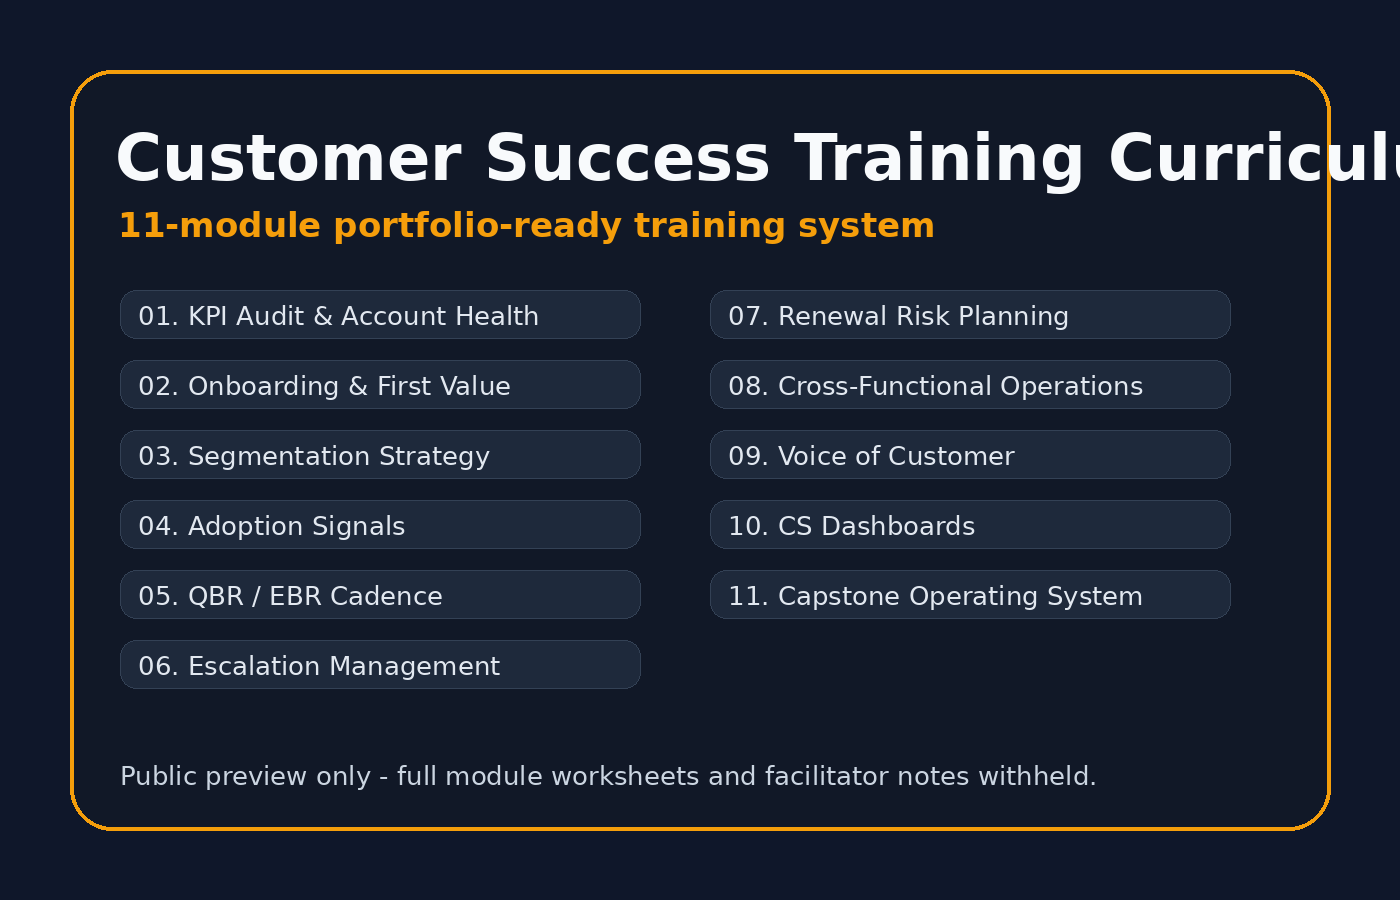
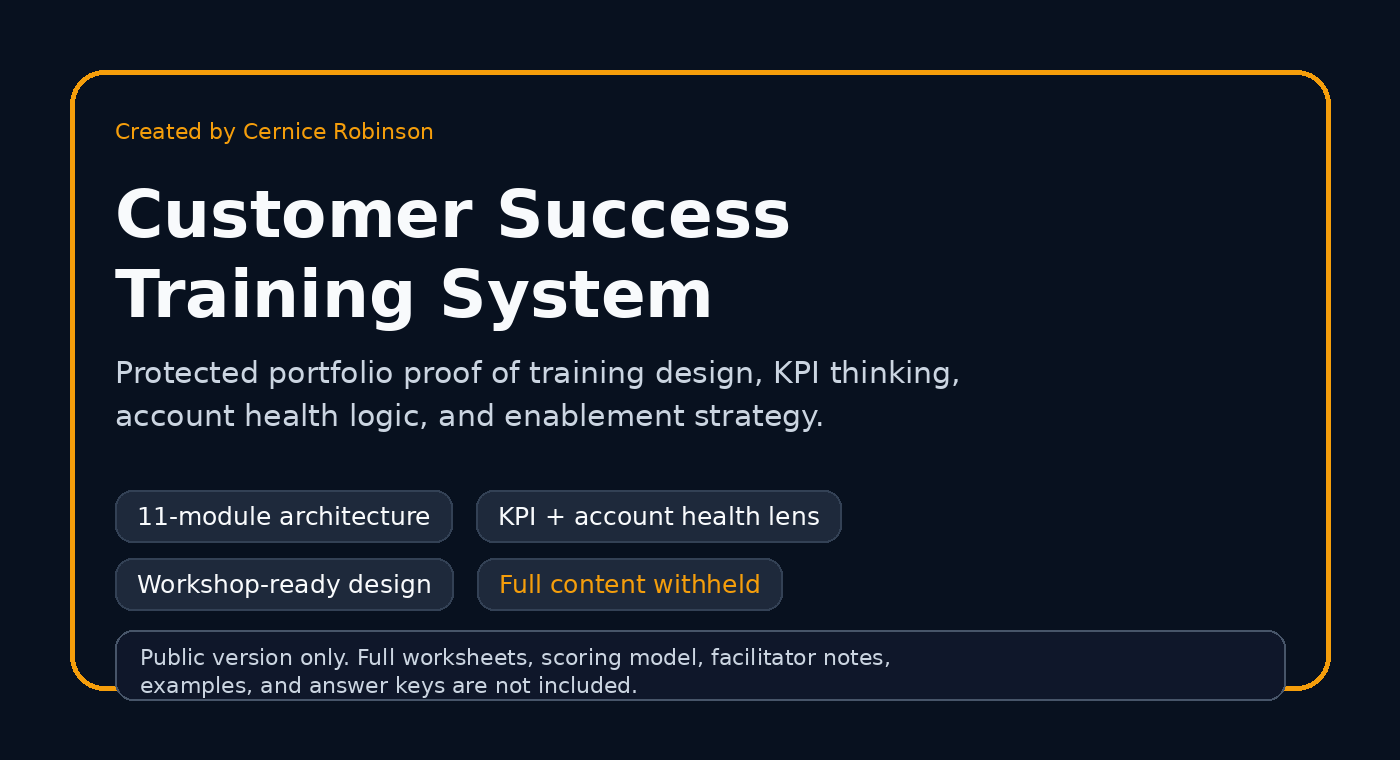
Add files via upload

diff --git a/index.html b/index.html
@@ -168,7 +168,6 @@
           <li><a href="#impact">Impact</a></li>
           <li><a href="#experience">Experience</a></li>
           <li><a href="#expertise">Expertise</a></li>
-          <li><a href="./training.html">Training</a></li>
           <li><a href="#resources">Downloads</a></li>
           <li><a href="#contact">Contact</a></li>
         </ul>
@@ -188,7 +187,6 @@
           <a class="button primary" href="mailto:crobins26@gmail.com">Contact Cernice</a>
           <a class="button" href="./files/cernice-robinson-executive-capability-brief.pdf" download="Cernice-Robinson-Executive-Capability-Brief.pdf">Download Capability Brief</a>
           <a class="button ghost" href="#resources">View Portfolio Files</a>
-          <a class="button ghost" href="./training.html">View Training Curriculum</a>
         </div>
       </div>
 
@@ -332,7 +330,28 @@
         <article class="content-card"><div class="icon">🤝</div><h3>Customer Success & Account Health</h3><p>Stakeholder alignment, customer risk visibility, retention thinking, QBR-style account reviews, customer escalation handling, and relationship systems.</p></article>
         <article class="content-card"><div class="icon">🧭</div><h3>Transformation Leadership</h3><p>Change readiness, resistance mapping, SOP adoption, team enablement, AI readiness, and turning innovation anxiety into practical movement.</p></article>
         <article class="content-card"><div class="icon">🎓</div><h3>Education & Credentials</h3><p>Master’s in Business Analytics, Bachelor’s in Business Administration, 1WorldSync certification, Google Data Analytics, and frontline leadership training.</p></article>
-        <article class="content-card"><div class="icon">📚</div><h3>Training Design & Enablement</h3><p>Customer success curriculum design, KPI-based learning paths, workshop framing, facilitator-ready structure, and professional development assets.</p></article>
+      </div>
+    </section>
+
+    <section class="site-shell" id="training-proof">
+      <div class="two-col">
+        <div class="content-card">
+          <div class="section-label">Customer Success Training Design</div>
+          <h2>I created a protected customer success training system.</h2>
+          <p>
+            This portfolio proof-point shows my ability to design training, translate customer success concepts into operating behaviors, and connect learning to KPIs without releasing the full course content.
+          </p>
+          <p>
+            The public version is intentionally limited. It proves the structure and thinking, but it does not give away Module 01, worksheets, scoring logic, facilitator notes, scenario data, answer keys, or capstone exercises.
+          </p>
+          <div class="card-actions">
+            <a class="button" href="./files/customer-success-training-overview.pdf" download="Customer-Success-Training-Overview.pdf">Download Limited Overview</a>
+          </div>
+        </div>
+        <div class="preview-card">
+          <img src="./assets/customer-success-training-preview.png" alt="Customer success training system preview created by Cernice Robinson" onerror="this.insertAdjacentHTML('afterend', '<p class=&quot;preview-caption&quot;><strong>Image file missing:</strong> upload assets/customer-success-training-preview.png to GitHub with this page.</p>');" />
+          <p class="preview-caption">Public-safe preview only. The full training product remains protected.</p>
+        </div>
       </div>
     </section>
 
@@ -340,7 +359,7 @@
       <div class="section-head">
         <div class="section-label">Downloadable Portfolio Files</div>
         <h2>Working files hiring teams can open.</h2>
-        <p>These are public-safe artifacts. The case studies, dashboard, and training samples use fictional company names, synthetic data, and limited-preview framing only.</p>
+        <p>These are public-safe artifacts. The case studies and dashboard use fictional company names and synthetic data only.</p>
       </div>
       <div class="resources-grid">
         <article class="resource-card">
@@ -361,12 +380,8 @@
         </article>
 
         <article class="resource-card">
-          <div><span class="file-type">PDF</span><h3>Customer Success Training Overview</h3><p>Public-safe overview of an 11-module customer success curriculum designed around account health, onboarding, adoption, QBRs, renewals, dashboards, and operating rhythm.</p></div>
-          <div class="card-actions"><a class="button" href="./files/customer-success-training-overview.pdf" download="Customer-Success-Training-Overview.pdf">Download Overview</a><a class="button ghost" href="./training.html">View Page</a></div>
-        </article>
-        <article class="resource-card">
-          <div><span class="file-type">PDF</span><h3>Module 01 Limited Preview</h3><p>A controlled preview of the KPI Audit module. Full worksheets, facilitator notes, scoring logic, examples, and answer keys are intentionally withheld.</p></div>
-          <div class="card-actions"><a class="button" href="./files/customer-success-module-01-preview.pdf" download="Customer-Success-Module-01-Preview.pdf">Download Preview</a></div>
+          <div><span class="file-type">PDF</span><h3>Customer Success Training Overview</h3><p>Limited public overview of a training system I created. Full Module 01 materials and worksheets are intentionally withheld.</p></div>
+          <div class="card-actions"><a class="button" href="./files/customer-success-training-overview.pdf" download="Customer-Success-Training-Overview.pdf">Download Overview</a></div>
         </article>
         <article class="resource-card">
           <div><span class="file-type">EMAIL</span><h3>Resume Request</h3><p>For the formal resume, contact directly. The public site keeps employer-sensitive details light while still showing capability.</p></div>
@@ -376,20 +391,6 @@
           <div><span class="file-type">PNG</span><h3>Dashboard Preview</h3><p>Quick visual preview of the synthetic dashboard included in the Excel workbook.</p></div>
           <div class="card-actions"><a class="button" href="./assets/dashboard-preview.png" download="Synthetic-Dashboard-Preview.png">Download Preview</a></div>
         </article>
-      </div>
-    </section>
-
-
-    <section class="site-shell" id="training-preview">
-      <div class="section-head">
-        <div class="section-label">Customer Success Training</div>
-        <h2>Curriculum proof without giving the whole product away.</h2>
-        <p>The training sample shows the structure and business thinking behind the customer success curriculum while protecting the full Module 01 workbook, facilitator notes, scoring logic, and exercises.</p>
-      </div>
-      <div class="preview-card">
-        <img src="./assets/customer-success-training-preview.png" alt="Customer success training curriculum preview" onerror="this.closest('.preview-card').classList.add('image-missing'); this.insertAdjacentHTML('afterend', '<p class=&quot;preview-caption&quot;><strong>Image file missing:</strong> upload assets/customer-success-training-preview.png to GitHub with this page.</p>');" />
-        <p class="preview-caption">Public preview of the 11-module customer success training system. Full training content is preserved for private delivery.</p>
-        <div class="card-actions" style="margin-top: 16px;"><a class="button" href="./training.html">View Training Page</a><a class="button ghost" href="./files/customer-success-training-overview.pdf" download="Customer-Success-Training-Overview.pdf">Download Overview</a></div>
       </div>
     </section>
 

diff --git a/DEPLOYMENT_STEPS.md b/DEPLOYMENT_STEPS.md
@@ -1,70 +1,16 @@
-# GitHub Pages Deployment Steps
+# Deployment Steps
 
-This package is designed for the repository:
+1. Open the final ZIP.
+2. Upload the contents of the ZIP to the root of `crobins26/crobins26.github.io`.
+3. Confirm these folders exist at the root: `files/` and `assets/`.
+4. Commit changes to `main`.
+5. Wait a few minutes for GitHub Pages to refresh.
 
-`crobins26.github.io`
+## Delete old files from the repository
+If they exist in GitHub, delete these because the training page gave away too much:
 
-## Critical fix
+- `training.html`
+- `files/customer-success-module-01-preview.pdf`
 
-GitHub Pages file paths are case-sensitive. The live site will show missing images or broken downloads if the `files/` and `assets/` folders are not uploaded with `index.html`.
-
-Upload **all** of these items to the root of the repository:
-
-- `index.html`
-- `404.html`
-- `README.md`
-- `robots.txt`
-- `sitemap.xml`
-- `files/` folder
-- `assets/` folder
-
-Do not upload only `index.html`.
-Do not upload the ZIP file itself into GitHub and expect GitHub Pages to unzip it.
-Do not upload the containing folder only. The files must sit at the repository root.
-
-## Fastest GitHub web upload method
-
-1. Go to `https://github.com/crobins26/crobins26.github.io`
-2. Click **Add file**.
-3. Click **Upload files**.
-4. Open this downloaded package on your computer.
-5. Drag the **contents** of the package into GitHub, not just the unopened ZIP.
-6. Confirm that GitHub shows:
-   - `index.html`
-   - `files/cernice-robinson-executive-capability-brief.pdf`
-   - `files/simulated-cpg-po-automation-case-study.pdf`
-   - `files/synthetic-dsd-kpi-dashboard.xlsx`
-   - `files/portfolio-project-catalog.pdf`
-   - `assets/dashboard-preview.png`
-7. Commit directly to the `main` branch.
-8. Wait 1-3 minutes, then refresh `https://crobins26.github.io/`.
-
-## Test links after upload
-
-Open these directly in your browser after the commit:
-
-- `https://crobins26.github.io/files/cernice-robinson-executive-capability-brief.pdf`
-- `https://crobins26.github.io/files/simulated-cpg-po-automation-case-study.pdf`
-- `https://crobins26.github.io/files/synthetic-dsd-kpi-dashboard.xlsx`
-- `https://crobins26.github.io/files/portfolio-project-catalog.pdf`
-- `https://crobins26.github.io/assets/dashboard-preview.png`
-
-If any of those show 404, the matching file or folder was not uploaded to the repository root.
-
-## Privacy note
-
-This portfolio uses fictional company names and synthetic data. It should not disclose real employer data, internal process details, confidential retailer relationships, or proprietary workflow logic.
-
-
-## Added Customer Success Training Files
-
-Confirm these files are uploaded at the repository root/folders exactly as shown:
-
-```text
-training.html
-files/customer-success-training-overview.pdf
-files/customer-success-module-01-preview.pdf
-assets/customer-success-training-preview.png
-```
-
-Do not upload only `index.html`. The download and image buttons need the `files/` and `assets/` folders too.
+## Upload rule
+Upload the files and folders inside the ZIP, not the ZIP itself.

diff --git a/README.md b/README.md
@@ -1,54 +1,20 @@
-# Cernice Robinson Portfolio
+# Cernice Robinson Portfolio Site
 
 Public-safe GitHub Pages portfolio for Cernice Robinson.
 
-## Positioning
+## Important confidentiality note
+All case studies, dashboards, and examples use fictional companies and synthetic data. Do not add real employer data, real retailer details, internal metrics, pricing data, or confidential workflows.
 
-Sales Operations · Customer Success · DSD / CPG Retail Execution · Analytics · Process Automation · AI-Ready Transformation
+## Training content boundary
+The site includes only a limited overview of the Customer Success Training System created by Cernice Robinson. Do not publish the full Module 01 workbook, worksheets, facilitator notes, scoring model, scenario data, answer keys, or capstone exercises.
 
-## Public-safe portfolio approach
+## Files to upload to repo root
+- index.html
+- 404.html
+- README.md
+- DEPLOYMENT_STEPS.md
+- VERIFY_LINKS.md
+- files/
+- assets/
 
-All downloadable examples use fictional company names, synthetic data, and simulated business scenarios. They are designed to demonstrate analytical thinking, operating system design, workflow improvement, dashboarding, and transformation leadership without exposing confidential employer information.
-
-## File structure
-
-```text
-/
-├── index.html
-├── 404.html
-├── README.md
-├── robots.txt
-├── sitemap.xml
-├── assets/
-│   ├── dashboard-preview.png
-│   └── dashboard_preview.png
-└── files/
-    ├── cernice-robinson-executive-capability-brief.pdf
-    ├── simulated-cpg-po-automation-case-study.pdf
-    ├── synthetic-dsd-kpi-dashboard.xlsx
-    ├── portfolio-project-catalog.pdf
-    └── legacy duplicate filenames for backward compatibility
-```
-
-## Download links used by the website
-
-- `./files/cernice-robinson-executive-capability-brief.pdf`
-- `./files/simulated-cpg-po-automation-case-study.pdf`
-- `./files/synthetic-dsd-kpi-dashboard.xlsx`
-- `./files/portfolio-project-catalog.pdf`
-- `./assets/dashboard-preview.png`
-
-## Deployment reminder
-
-Upload the files and folders to the root of the `crobins26.github.io` repository. Uploading only `index.html` will break the download buttons and dashboard image.
-
-
-## Customer Success Training Add-On
-
-This version includes a public-safe `training.html` page and two downloadable training assets:
-
-- `files/customer-success-training-overview.pdf`
-- `files/customer-success-module-01-preview.pdf`
-- `assets/customer-success-training-preview.png`
-
-Module 01 is intentionally limited. Full worksheets, scoring logic, facilitator notes, examples, answer keys, and private delivery materials are not included in the public repository.
+Do not upload training.html. It was intentionally removed.

diff --git a/VERIFY_LINKS.md b/VERIFY_LINKS.md
@@ -1,22 +1,17 @@
-# Verify Live GitHub Pages Links
+# Verify Live Links
 
-After upload and commit, test these exact URLs:
+After publishing, test these links:
 
-```text
-https://crobins26.github.io/
-https://crobins26.github.io/training.html
-https://crobins26.github.io/files/cernice-robinson-executive-capability-brief.pdf
-https://crobins26.github.io/files/simulated-cpg-po-automation-case-study.pdf
-https://crobins26.github.io/files/synthetic-dsd-kpi-dashboard.xlsx
-https://crobins26.github.io/files/portfolio-project-catalog.pdf
-https://crobins26.github.io/files/customer-success-training-overview.pdf
-https://crobins26.github.io/files/customer-success-module-01-preview.pdf
-https://crobins26.github.io/assets/dashboard-preview.png
-https://crobins26.github.io/assets/customer-success-training-preview.png
-```
+- https://crobins26.github.io/
+- https://crobins26.github.io/files/cernice-robinson-executive-capability-brief.pdf
+- https://crobins26.github.io/files/simulated-cpg-po-automation-case-study.pdf
+- https://crobins26.github.io/files/synthetic-dsd-kpi-dashboard.xlsx
+- https://crobins26.github.io/files/portfolio-project-catalog.pdf
+- https://crobins26.github.io/files/customer-success-training-overview.pdf
+- https://crobins26.github.io/assets/dashboard-preview.png
+- https://crobins26.github.io/assets/customer-success-training-preview.png
 
-If any file gives a 404, it was not uploaded into the correct folder or the file name does not match exactly. GitHub Pages file paths are case-sensitive.
+These old links should no longer be used:
 
-Public-facing name should be `Cernice Robinson` only. Do not use nickname variants on the portfolio site.
-
-Module 01 preview is intentionally limited. Do not upload the full workbook, answer key, facilitator notes, or private training materials.
+- https://crobins26.github.io/training.html
+- https://crobins26.github.io/files/customer-success-module-01-preview.pdf

diff --git a/MANIFEST.md b/MANIFEST.md
@@ -1,21 +1,23 @@
-# File Manifest
+# Final Manifest
 
-- `404.html`
-- `DEPLOYMENT_STEPS.md`
-- `README.md`
-- `VERIFY_LINKS.md`
-- `assets/customer-success-training-preview.png`
-- `assets/dashboard-preview.png`
-- `assets/dashboard_preview.png`
-- `files/Cernice_Robinson_Executive_Capability_Brief.pdf`
-- `files/Portfolio_Project_Catalog.pdf`
-- `files/Simulated_CPG_PO_Automation_Case_Study.pdf`
-- `files/Synthetic_DSD_KPI_Dashboard.xlsx`
-- `files/cernice-robinson-executive-capability-brief.pdf`
-- `files/customer-success-module-01-preview.pdf`
-- `files/customer-success-training-overview.pdf`
-- `files/portfolio-project-catalog.pdf`
-- `files/simulated-cpg-po-automation-case-study.pdf`
-- `files/synthetic-dsd-kpi-dashboard.xlsx`
-- `index.html`
-- `training.html`
+## Root
+- index.html
+- 404.html
+- README.md
+- DEPLOYMENT_STEPS.md
+- VERIFY_LINKS.md
+
+## Assets
+- assets/dashboard-preview.png
+- assets/customer-success-training-preview.png
+
+## Files
+- files/cernice-robinson-executive-capability-brief.pdf
+- files/simulated-cpg-po-automation-case-study.pdf
+- files/synthetic-dsd-kpi-dashboard.xlsx
+- files/portfolio-project-catalog.pdf
+- files/customer-success-training-overview.pdf
+
+## Removed intentionally
+- training.html
+- files/customer-success-module-01-preview.pdf
